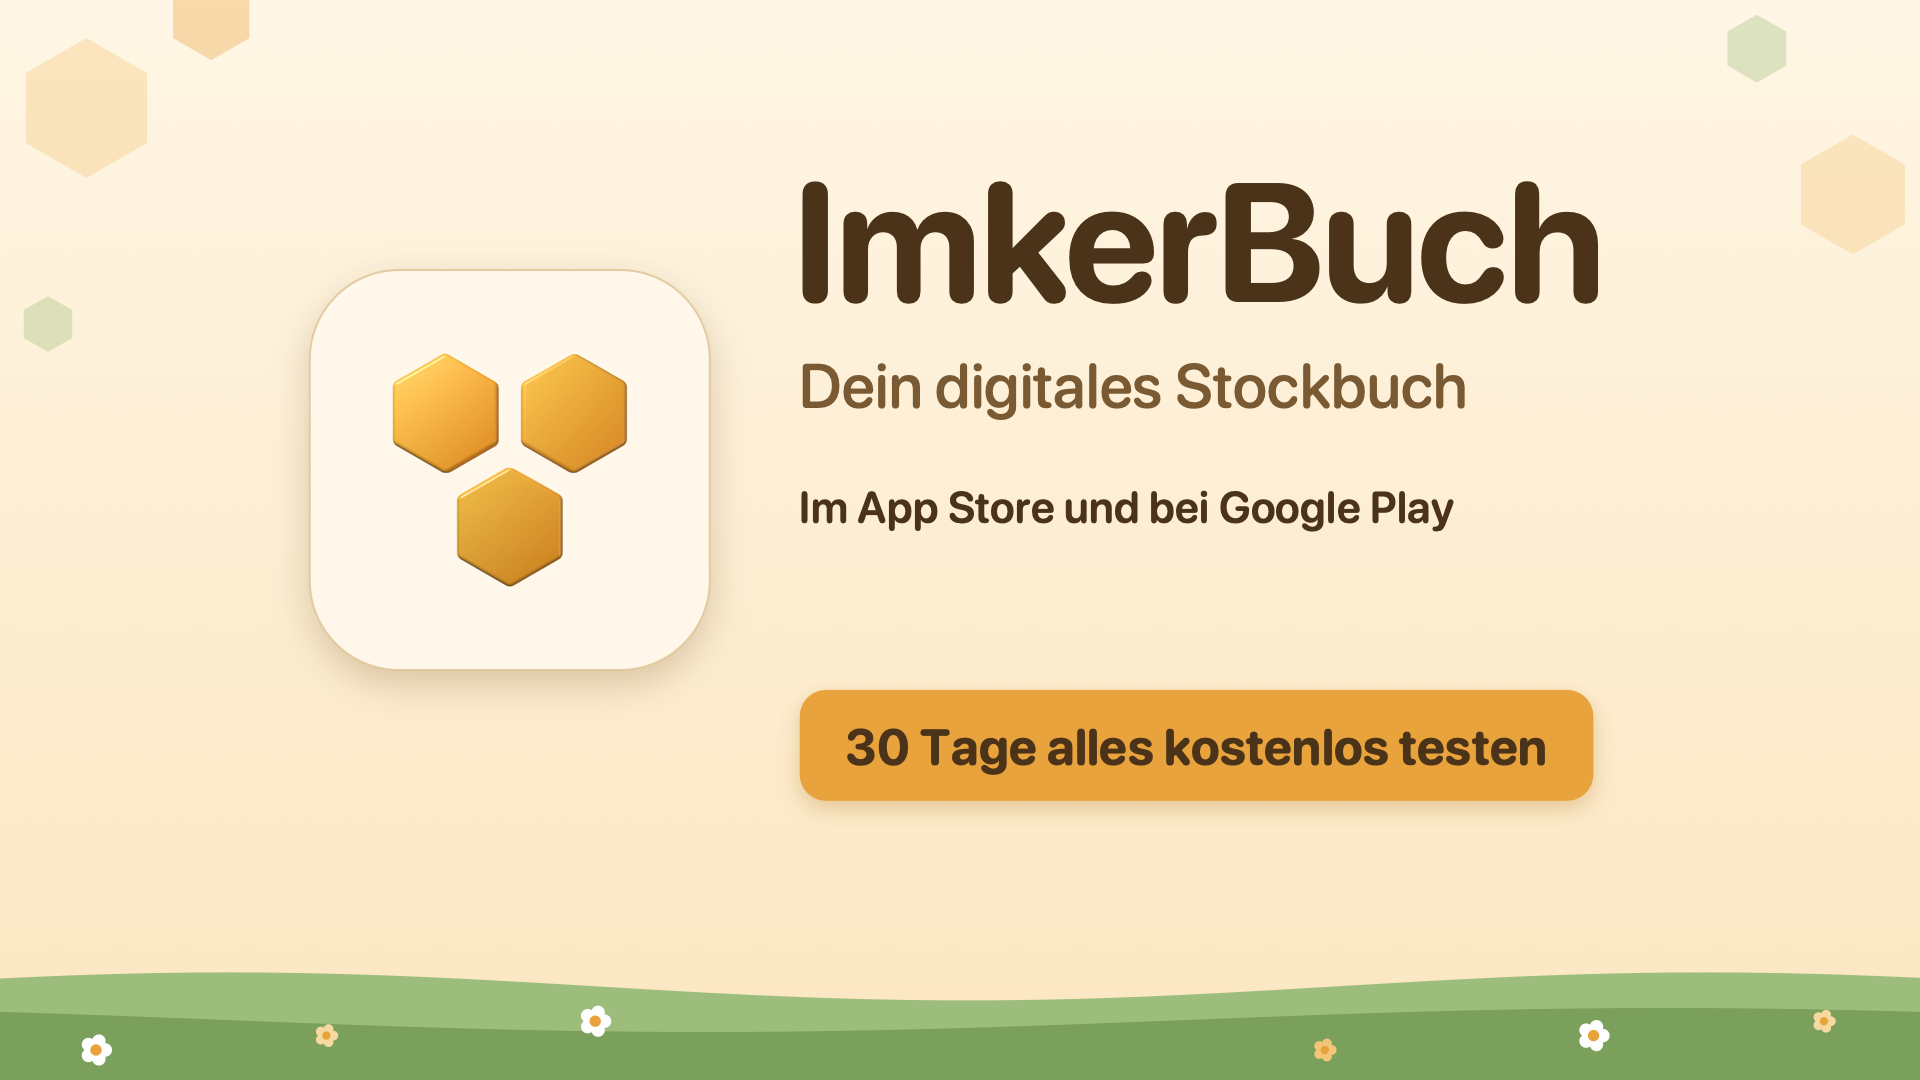
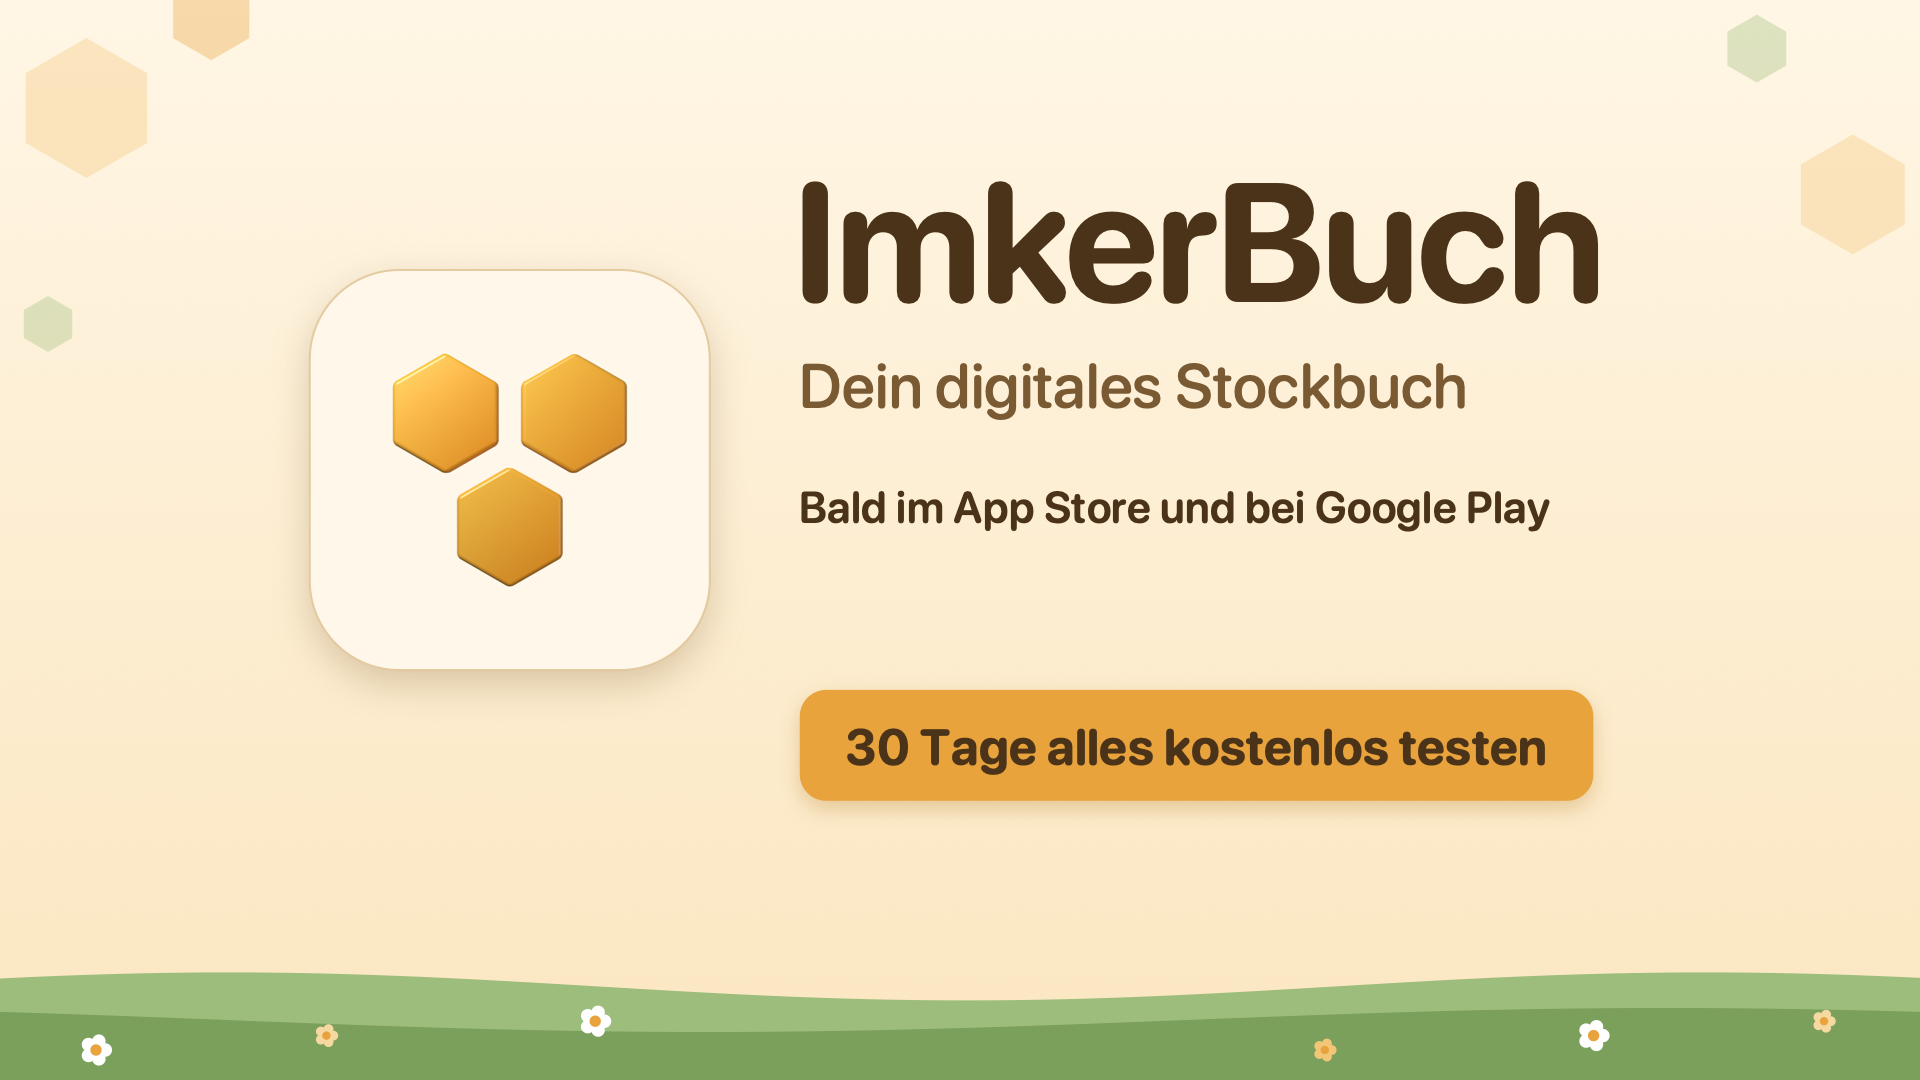
Marketing: Schlussbild „Bald im App Store und bei Google Play“ (umschaltbar)

Changed region(s): [[0.4062, 0.4583, 0.8125, 0.4889]]

diff --git a/docs/marketing/video01/werkzeuge/endkarte.swift b/docs/marketing/video01/werkzeuge/endkarte.swift
@@ -2,6 +2,8 @@
 //   endkarte-16x9.png (1920x1080) und endkarte-9x16.png (1080x1920)
 // Aufruf:  swift docs/marketing/video01/werkzeuge/endkarte.swift [Ausgabeordner]
 // Ohne Angabe landet alles in docs/marketing/video01/ (Ordner über werkzeuge/).
+// Store-Zeile: Standard „Bald im App Store und bei Google Play“; nach dem Store-Start mit
+//   STORE_ZEILE="Im App Store und bei Google Play" swift endkarte.swift
 // Keine offiziellen Store-Abzeichen (Lizenz) – an ihrer Stelle bleibt freier Platz.
 
 import AppKit
@@ -165,7 +167,7 @@ func karte(breite W: CGFloat, hoehe H: CGFloat, hochkant: Bool) -> CGImage {
     let icon = ladeIcon()
     let titelZ = zeile("ImkerBuch", schrift((hochkant ? 150 : 168) * s, .bold), braun, kern: -1.5 * s)
     let unterZ = zeile("Dein digitales Stockbuch", schrift((hochkant ? 60 : 62) * s, .medium), braunMittel)
-    let storeZ = zeile("Im App Store und bei Google Play", schrift((hochkant ? 46 : 44) * s, .semibold), braun)
+    let storeZ = zeile(ProcessInfo.processInfo.environment["STORE_ZEILE"] ?? "Bald im App Store und bei Google Play", schrift((hochkant ? 46 : 44) * s, .semibold), braun)
     let pillZ = zeile("30 Tage alles kostenlos testen", schrift((hochkant ? 52 : 50) * s, .bold), braun)
 
     let pillPadX = 46 * s, pillPadY = 26 * s
